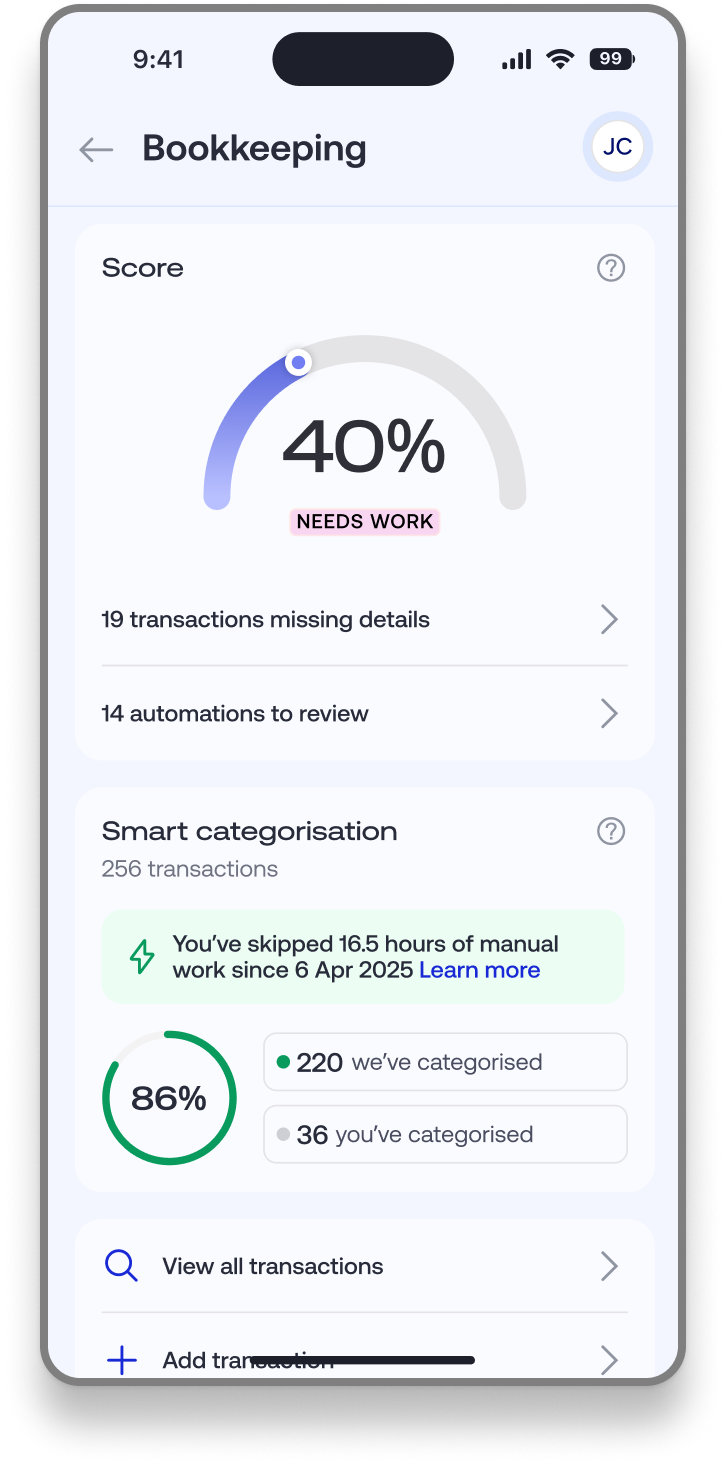
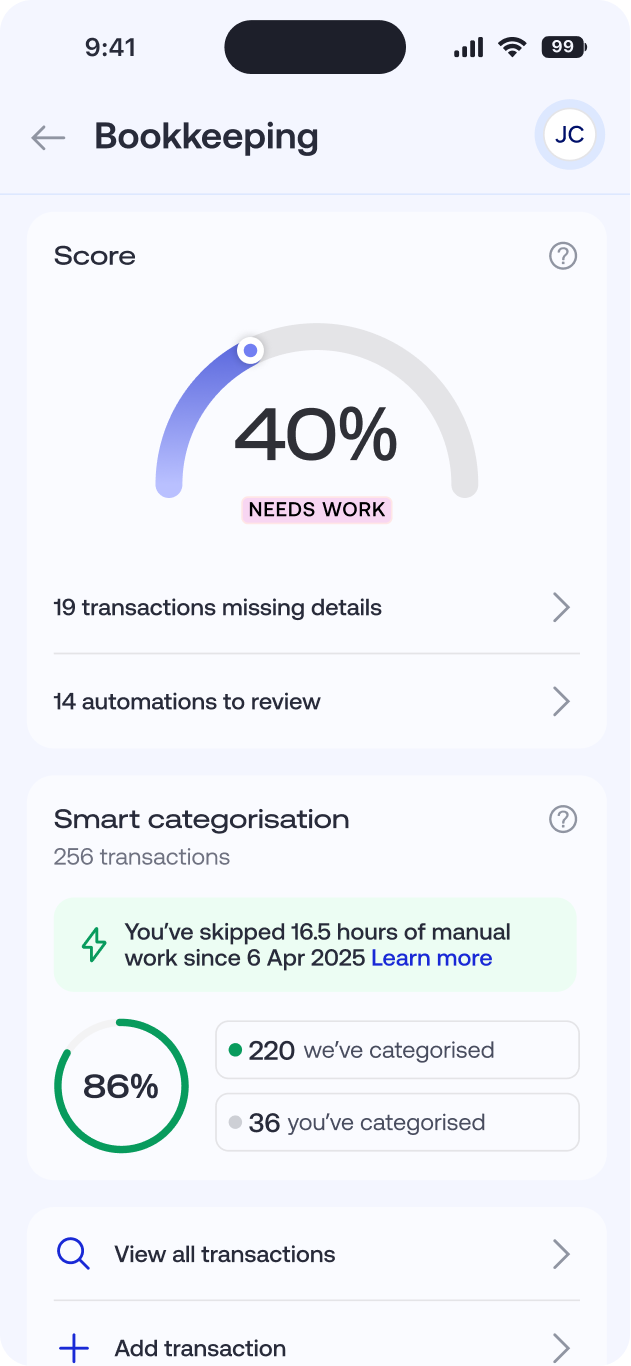
Update screen images and content for gallery sections

diff --git a/src/pages/Tide.tsx b/src/pages/Tide.tsx
@@ -64,7 +64,7 @@ function Tide() {
     () => [
       {
         id: 'accounting-os',
-        eyebrow: 'Accounting OS',
+        eyebrow: 'Admin OS',
         title: 'All admin in one place',
         description: 'A system of products designed to help small businesses owners navigate their administrative tasks with ease.',
         imageSrc: encodeURI('/assets/✅ Admin - no tasks comeplete.png'),
